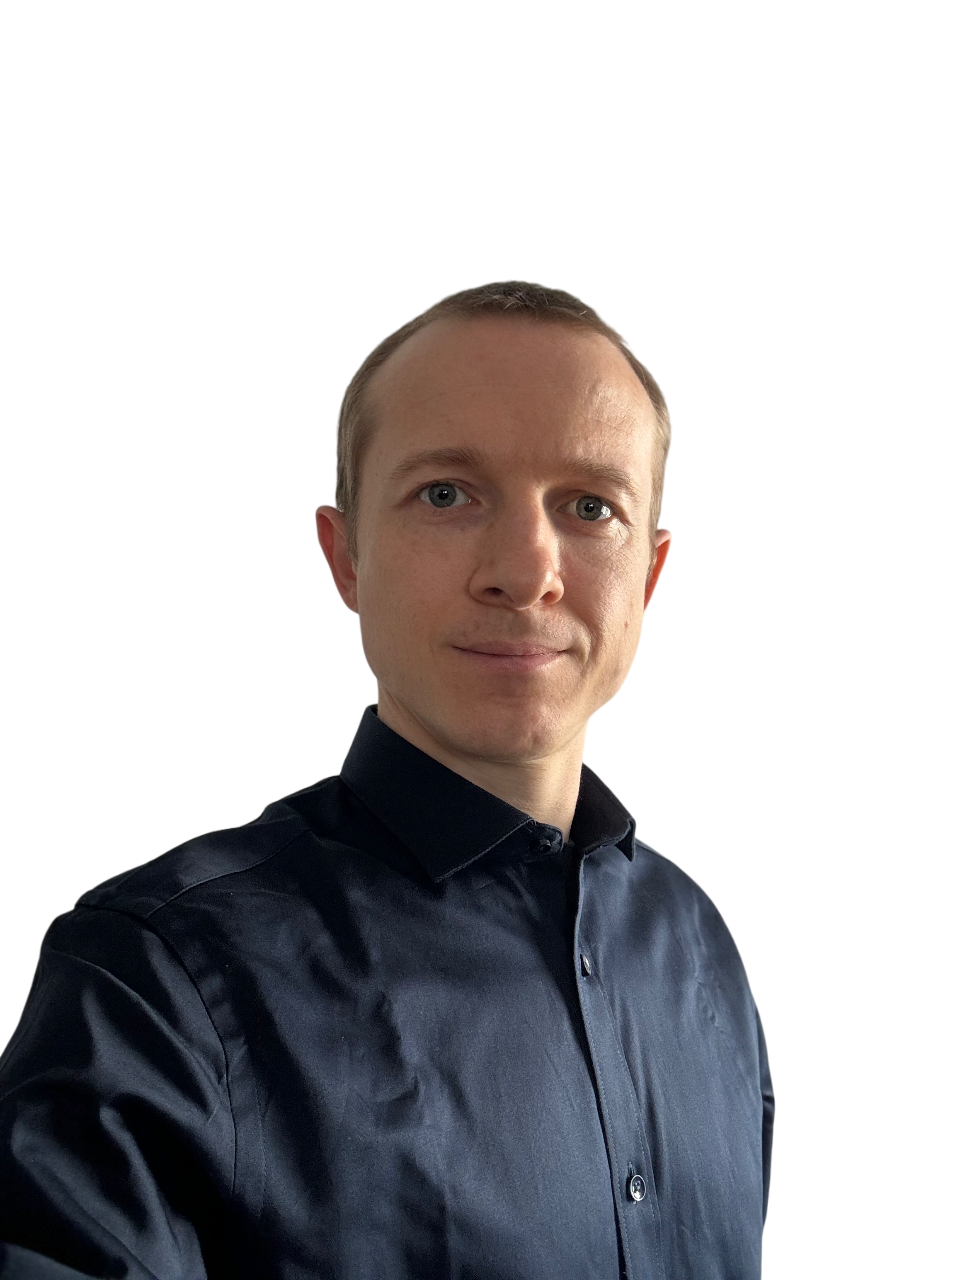
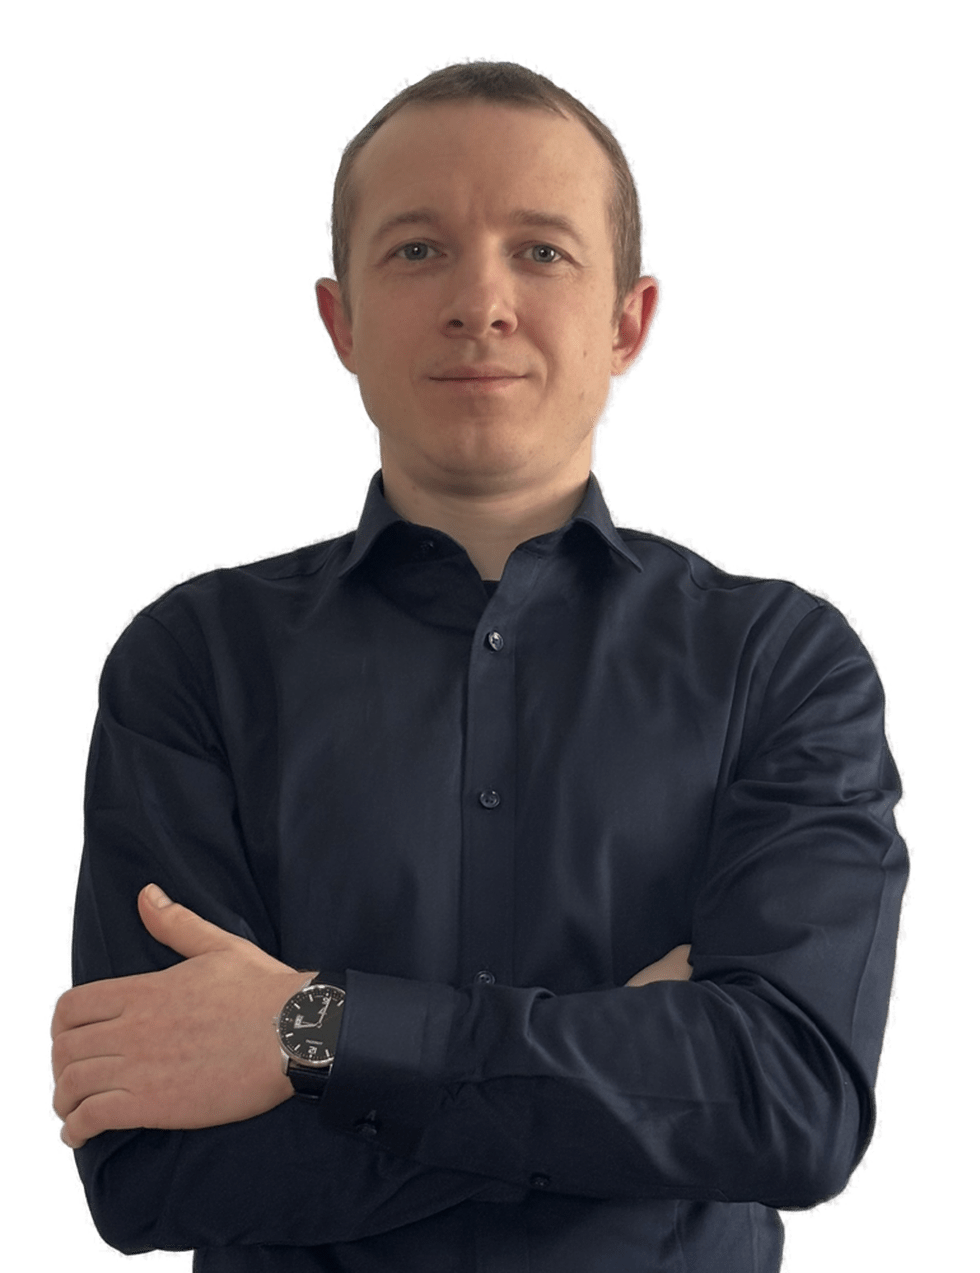
added new hero img & open new page

diff --git a/src/app/main-content/portfolio/portfolio-single/portfolio-single.component.ts b/src/app/main-content/portfolio/portfolio-single/portfolio-single.component.ts
@@ -16,15 +16,24 @@ export class PortfolioSingleComponent {
       code: 'JavaScript | HTML | CSS',
       description:
         'A simple Jump-and-Run game based on an object-oriented approach. Help sharkie to find coins and poison bottles to fight against the killer whale.',
-      linkLiveTest: '',
-      linkGithub: '',
+      linkLiveTest: 'http://sharkie.andre-kempf.com',
+      linkGithub: 'https://github.com/Chneemann/sharkie',
     },
     {
       name: 'Join',
       imgPath: 'join.svg',
       code: 'Angular | TypeScript | HTML | CSS | Firebase',
       description:
-        'Task manager inspired by the Kanban System. Create and organize tasks using drag and drop functions, assign users and categories. ',
+        'Task manager inspired by the Kanban System. Create and organize tasks using drag and drop functions, assign users and categories.',
+      linkLiveTest: '',
+      linkGithub: '',
+    },
+    {
+      name: 'Simple CRM',
+      imgPath: 'simple-crm.svg',
+      code: 'Angular | Firebase',
+      description:
+        'A very Simple Customer Relationship Management system working with CRUD functionality.',
       linkLiveTest: '',
       linkGithub: '',
     },

diff --git a/src/app/main-content/portfolio/portfolio-single/portfolio-single.component.html b/src/app/main-content/portfolio/portfolio-single/portfolio-single.component.html
@@ -16,10 +16,10 @@
       <p>{{ project.description }}</p>
       <div class="btns">
         <div class="btn btn-live-test">
-          <a href="{{ project.linkLiveTest }}">Live test</a>
+          <a href="{{ project.linkLiveTest }}" target="_blank">Live test</a>
         </div>
         <div class="btn btn-github">
-          <a href="{{ project.linkGithub }}">Github</a>
+          <a href="{{ project.linkGithub }}" target="_blank">Github</a>
         </div>
       </div>
     </div>
